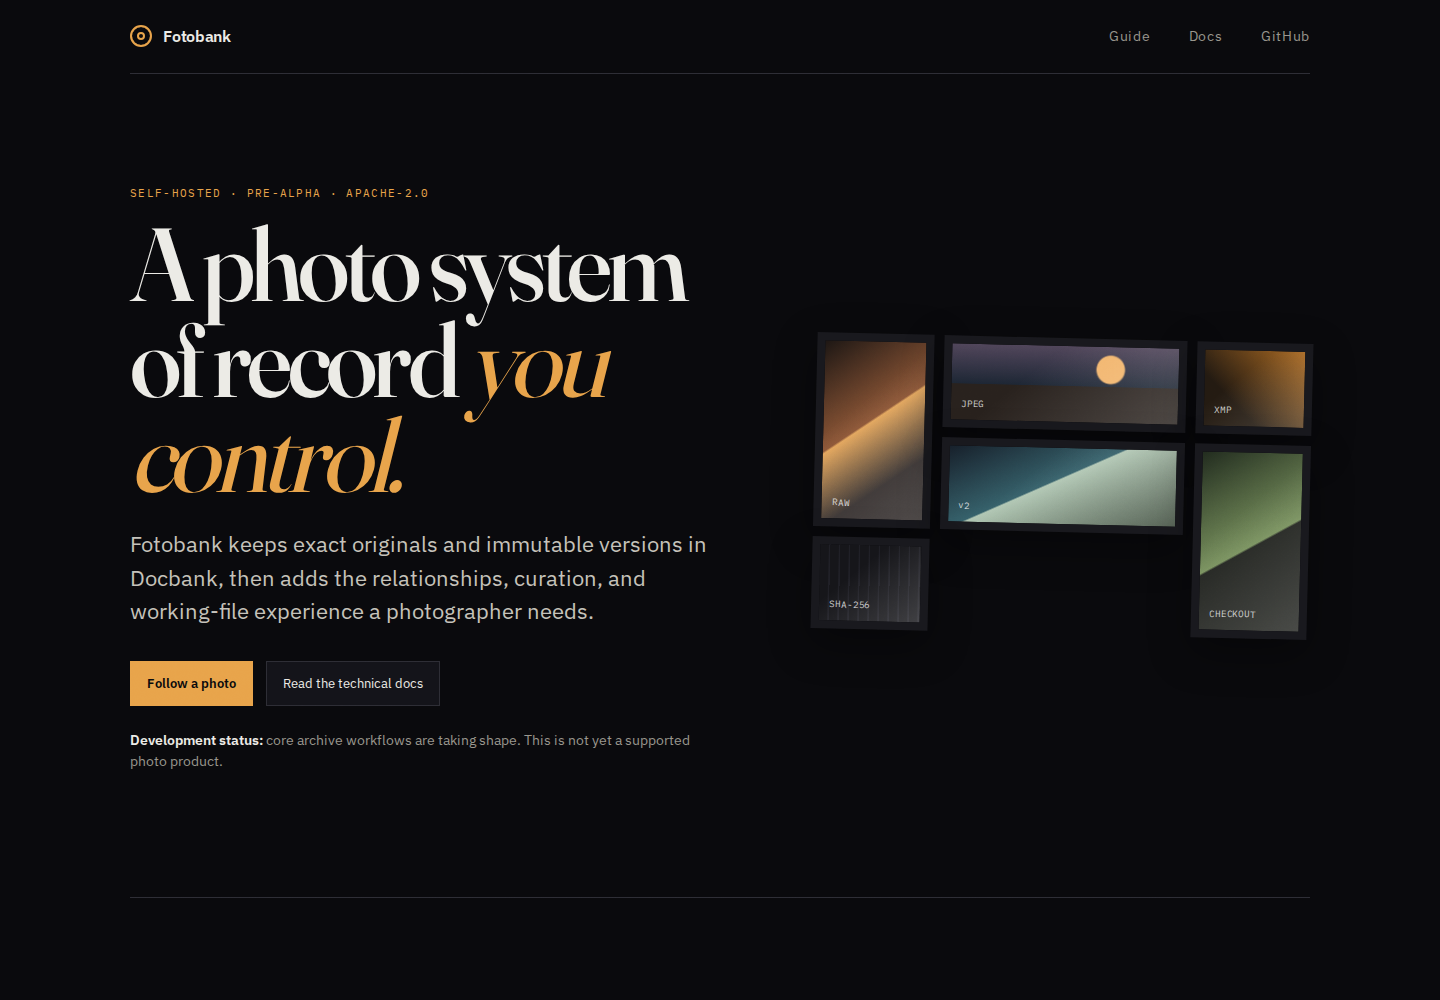
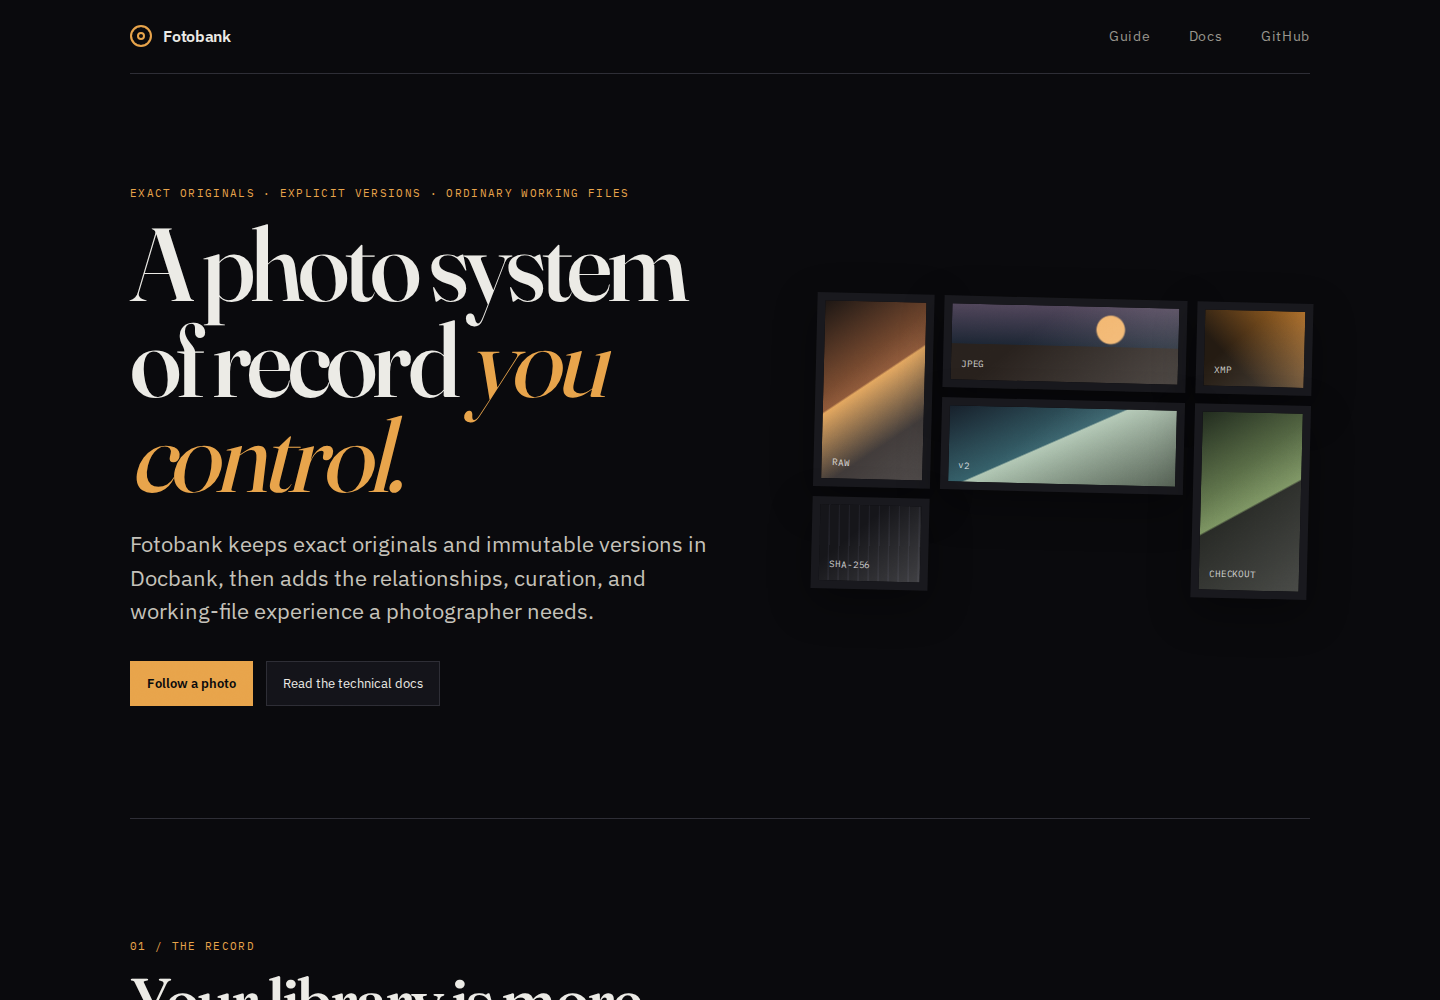
docs: lead the site with product promises
Repository status and license metadata distracted from the reason Fotobank
exists. Lead with exact originals, explicit versions, and ordinary working
files instead, while keeping the honest pre-alpha notice in the footer.

Generated with Codex

diff --git a/website/index.html b/website/index.html
@@ -29,14 +29,13 @@
     <main id="main">
       <section class="hero">
         <div class="hero-copy">
-          <p class="eyebrow">Self-hosted · Pre-alpha · Apache-2.0</p>
+          <p class="eyebrow">Exact originals · Explicit versions · Ordinary working files</p>
           <h1>A photo system of record <em>you control.</em></h1>
           <p class="lede">Fotobank keeps exact originals and immutable versions in Docbank, then adds the relationships, curation, and working-file experience a photographer needs.</p>
           <div class="actions">
             <a class="button primary" href="/guide/">Follow a photo</a>
             <a class="button" href="/docs/">Read the technical docs</a>
           </div>
-          <p class="status"><strong>Development status:</strong> core archive workflows are taking shape. This is not yet a supported photo product.</p>
         </div>
         <div class="contact-sheet" aria-label="An abstract contact sheet showing related photo files">
           <span class="frame tall warm"><b>RAW</b></span>
@@ -147,6 +146,6 @@
       </section>
     </main>
 
-    <footer><span>Fotobank</span><span>Copyright © 2026 Kenn Software LLC · Apache-2.0</span></footer>
+    <footer><span>Fotobank is pre-alpha software.</span><span>Copyright © 2026 Kenn Software LLC · Apache-2.0</span></footer>
   </body>
 </html>

diff --git a/website/styles/site.css b/website/styles/site.css
@@ -121,8 +121,6 @@ h1 em { color: var(--amber); font-weight: 420; }
 h2 { margin-bottom: 1.4rem; font-size: clamp(2.4rem, 4.4vw, 4.6rem); line-height: 1; }
 h3 { margin-bottom: .7rem; font-size: 1.15rem; line-height: 1.25; }
 .lede { max-width: 680px; color: #c5c2ba; font-size: clamp(1.1rem, 1.7vw, 1.35rem); line-height: 1.55; }
-.status { max-width: 650px; margin-top: 1.5rem; color: var(--muted); font-size: .85rem; }
-.status strong { color: var(--paper); }
 .actions { display: flex; flex-wrap: wrap; gap: .8rem; margin-top: 2rem; }
 .button { display: inline-flex; min-height: 45px; align-items: center; padding: .65rem 1rem; border: 1px solid var(--line); color: var(--paper); background: var(--surface); text-decoration: none; font-size: .84rem; }
 .button:hover { border-color: var(--amber); color: var(--paper); }

diff --git a/website/index.md b/website/index.md
@@ -3,9 +3,6 @@
 Fotobank keeps exact originals and immutable versions in Docbank, then adds the
 relationships, curation, and working-file experience a photographer needs.
 
-**Development status:** Fotobank is pre-alpha. Core archive workflows are
-taking shape, but this is not yet a supported photo product.
-
 ## Your library is more than a folder
 
 A photo archive must preserve the bytes, explain which files belong together,
@@ -60,3 +57,9 @@ belong in Docbank; photographer decisions about an asset belong in Fotobank.
 
 Continue with the [photo authority guide](/guide/) or the [technical
 documentation](/docs/).
+
+## Project status
+
+Fotobank is pre-alpha software. Core archive workflows are taking shape, but
+this is not yet a supported photo product. The source is licensed under
+Apache-2.0.
